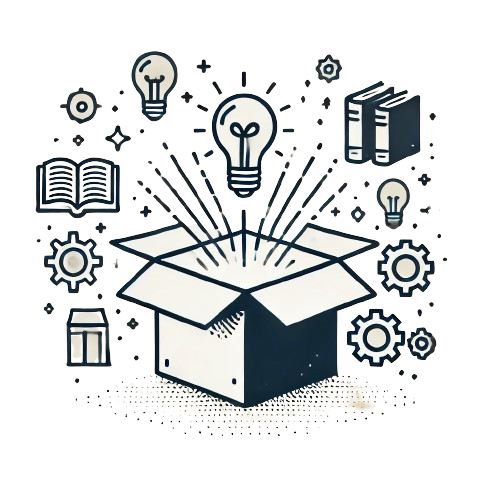
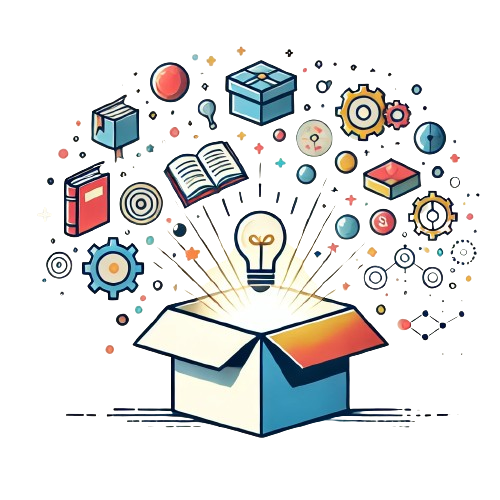
chore: change hero visual and fix typo

diff --git a/src/components/welcome/how-to/how-to.tsx b/src/components/welcome/how-to/how-to.tsx
@@ -9,7 +9,7 @@ export default function HowTo() {
         <div className="w-[90%] space-y-3 md:w-[70%]">
           <div className="space-y-3">
             <h3 className="text-[2.0rem] font-bold">Tips Boxの使い方</h3>
-            <p>Tips Boxは以下の3ステップで簡単に始めることができます。</p>
+            <p>Tips Boxは以下の4ステップで簡単に始めることができます。</p>
           </div>
           <div className="grid grid-cols-1 gap-5 lg:grid-cols-2">
             {HOWTOLIST.map((item) => (
